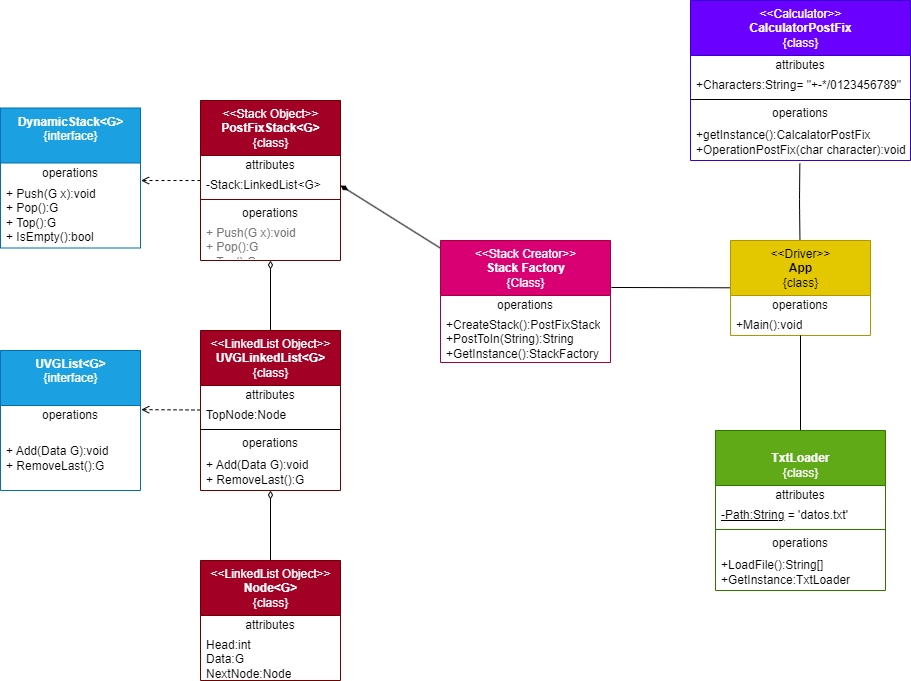
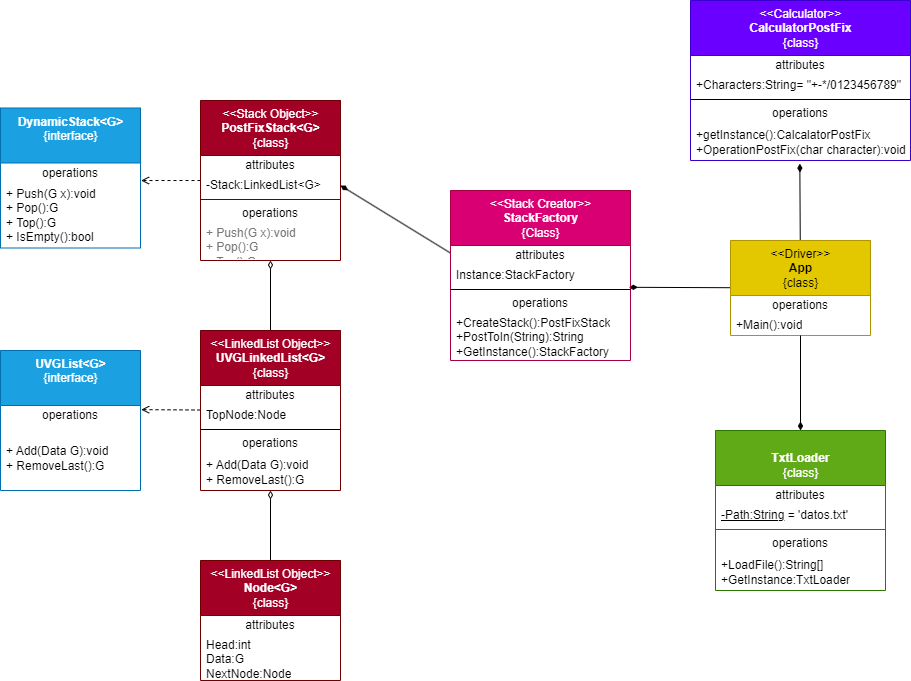
Most of singleton

Changed region(s): [[0.461, 0.2775, 0.7069, 0.5551], [0.4303, 0.3084, 0.461, 0.3392]]

diff --git a/src/main/java/com/SingletonClasses/CalculatorPostFix.java b/src/main/java/com/SingletonClasses/CalculatorPostFix.java
@@ -1,0 +1,55 @@
+package com.SingletonClasses;
+import com.Structures.classes.PostFixStack;
+/**
+ * Operaciones de evaluación
+ */
+public class CalculatorPostFix {
+
+    /**
+     * Postfix
+     * 
+     * @param stack se realizan y almacenan las operaciones
+     * @param item Representa la operación
+     * 
+     * @throws ArithmeticException se divide por cero
+     * @throws IllegalArgumentException el caracter no es valido
+     */
+    public static void OperationPostFix(PostFixStack<Integer> stack, Character item) {
+        String allUseCharacters = "+-*/0123456789";
+
+        int result = 0;
+
+        if (allUseCharacters.contains(item.toString())) {
+            switch (item) {
+                case '+':
+                    result = stack.pop() + stack.pop();
+                    stack.push(result);
+                    break;
+                case '-':
+                    result = stack.pop() - Character.getNumericValue(stack.pop());
+                    stack.push(result);
+                    break;
+                case '*':
+                    result = stack.pop() * stack.pop();
+                    stack.push(result);
+                    break;
+                case '/':
+                    int divisor = stack.pop();
+                    if (divisor != 0) {
+                        result = stack.pop() / divisor;
+                        stack.push(result);
+                    } else {
+                        throw new ArithmeticException("División por cero en la expresión.");
+                    }
+                    break;
+                case ' ':
+                    break;
+                default:
+                    stack.push(Character.getNumericValue(item));
+                    break;
+            }
+        } else {
+            throw new IllegalArgumentException("El caracter '" + item + "' no es válido en la expresión.");
+        }
+    }
+}

diff --git a/src/main/java/com/SingletonClasses/IntoPostConvertor.java b/src/main/java/com/SingletonClasses/IntoPostConvertor.java
@@ -1,0 +1,46 @@
+package com.SingletonClasses;
+
+import com.Structures.classes.PostFixStack;
+public class IntoPostConvertor {
+    private int Preced(char ch){
+        switch (ch){
+            case '+':
+            case '-':
+                return 1;
+            case '*':
+            case '/':
+                return 2;
+        }
+        return -1;
+    }
+
+    public String InFixToPostFix(PostFixStack<Character> stack, String exp){
+        String result = "";
+        for (Character item : exp.toCharArray()){
+            switch (item) {
+                case '+':
+                case '-':
+                case '*':
+                case '/':
+                    if (!stack.isEmpty() && Preced(item) <= Preced(stack.top())){
+                        result += stack.pop();
+                    }
+                    stack.push(item);
+                    break;
+                case '(':
+                    stack.push(item);
+                    break;
+                case ')':
+                    if (!stack.isEmpty() && stack.top() != '('){
+                        result += stack.pop();
+                    }
+                    stack.pop();
+                    break;
+                default:
+                    result += item;
+                    break;
+            }
+        }
+        return result;
+    }
+}

diff --git a/src/main/java/com/SingletonClasses/TxtLoader.java b/src/main/java/com/SingletonClasses/TxtLoader.java
@@ -1,0 +1,43 @@
+package com.SingletonClasses;
+
+import java.io.BufferedReader;
+import java.io.FileReader;
+import java.io.IOException;
+import java.util.ArrayList;
+import java.util.List;
+
+/**
+ * Leer el archivo Txt
+ */
+public class TxtLoader {
+    private String path;
+
+    /**
+     * Constructor
+     *
+     * @param filePath La ruta del archivo txt
+     */
+    public TxtLoader(String filePath) {
+        this.path = filePath;
+    }
+
+    /**
+     * lee el txt y lo devuelve como un array
+     *
+     * @return Un array de cadenas del txt
+     */
+    public String[] loadFile() {
+        List<String> lines = new ArrayList<>();
+
+        try (BufferedReader reader = new BufferedReader(new FileReader(path))) {
+            String line;
+            while ((line = reader.readLine()) != null) {
+                lines.add(line);
+            }
+        } catch (IOException e) {
+            System.err.println("Error al cargar el archivo " + path + ": " + e.getMessage());
+        }
+
+        return lines.toArray(new String[0]);
+    }
+}

diff --git a/src/main/java/com/SingletonClasses/StackFactory.java b/src/main/java/com/SingletonClasses/StackFactory.java
@@ -1,0 +1,17 @@
+package com.SingletonClasses;
+import com.Structures.classes.PostFixStack;
+
+public class StackFactory {
+    private static StackFactory instance;
+    public StackFactory GetInstance(){
+        if (instance == null){
+            instance = new StackFactory();
+        }
+        return instance;
+    }
+    
+    public PostFixStack CreateStack(){
+        return new PostFixStack();
+    }
+
+}

diff --git a/src/test/java/com/LinkedListTest.java b/src/test/java/com/LinkedListTest.java
@@ -1,5 +1,8 @@
 package com;
 
+import static org.junit.Assert.assertTrue;
+
+import org.junit.Test;
 public class LinkedListTest {
     
 }
